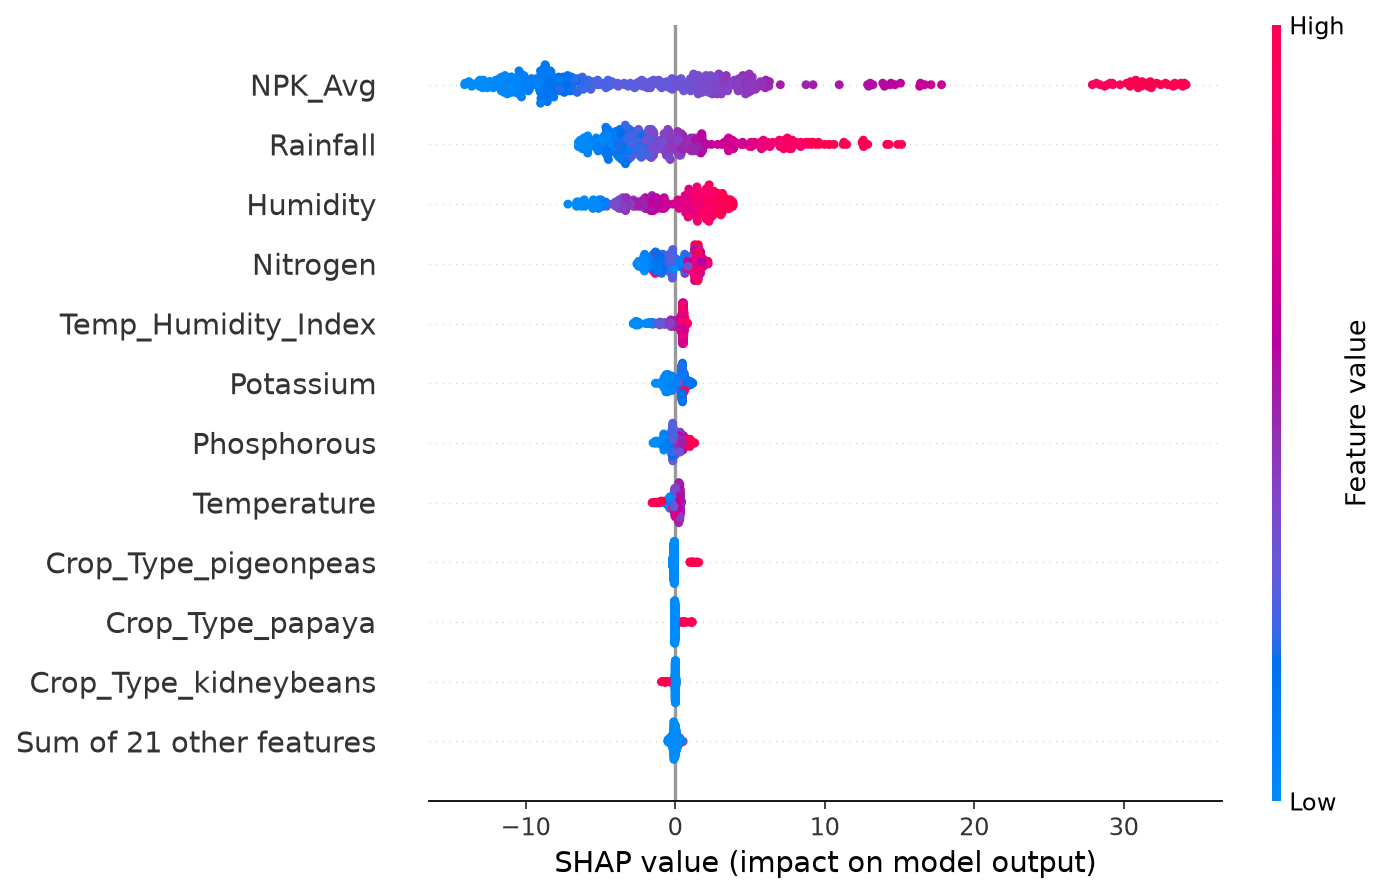
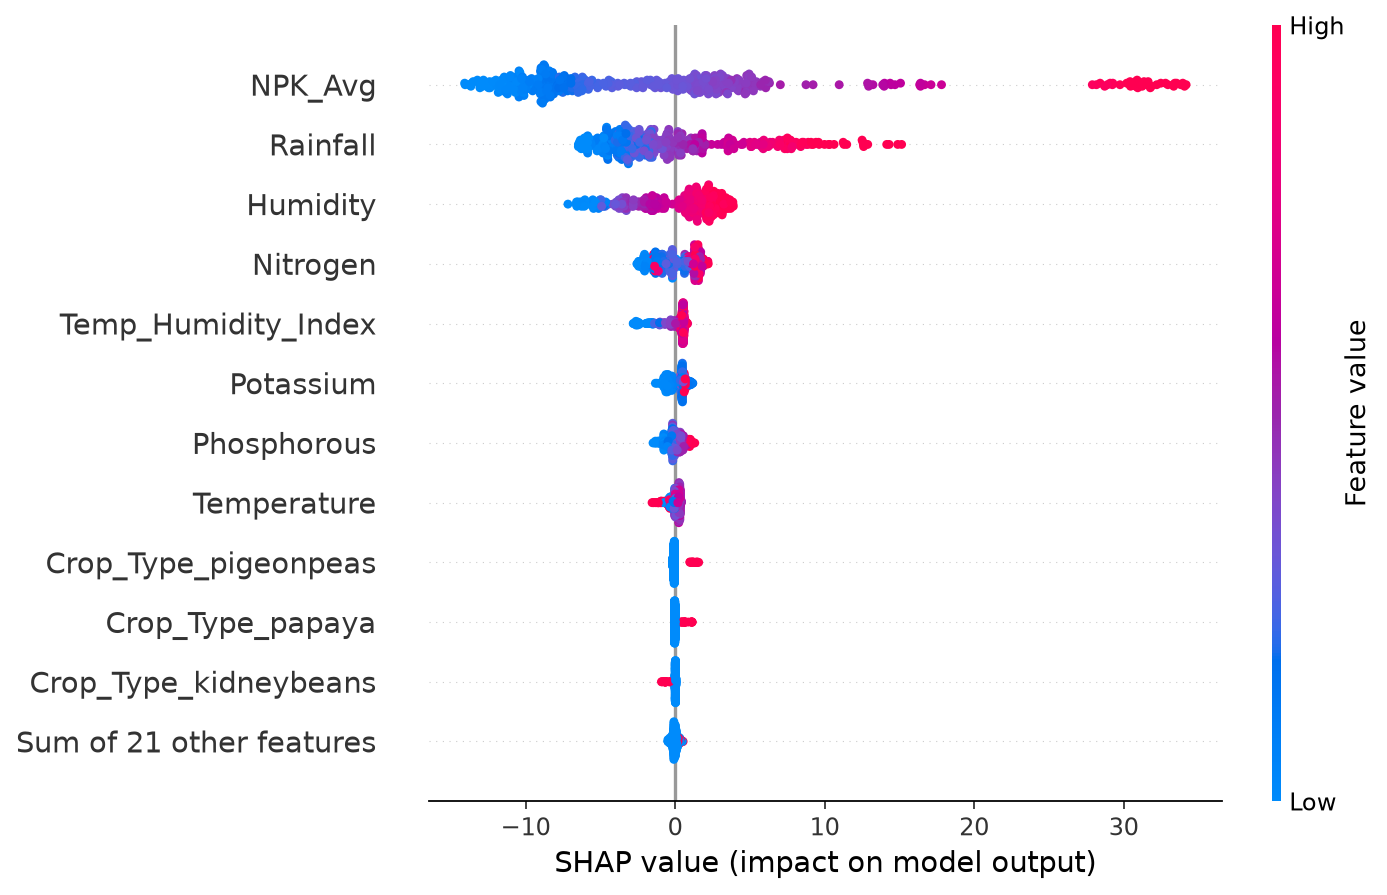
Focus the yield model and README on validated results
Drop the linear comparison from the yield pipeline, rewrite the notebook commentary and README around what the project delivers, and regenerate the reports.

diff --git a/crop_analysis/yield_model.py b/crop_analysis/yield_model.py
@@ -2,7 +2,6 @@
 import numpy as np
 import pandas as pd
 from sklearn.compose import ColumnTransformer
-from sklearn.linear_model import LinearRegression
 from sklearn.metrics import mean_absolute_error, mean_squared_error, r2_score
 from sklearn.model_selection import GridSearchCV, KFold, train_test_split
 from sklearn.pipeline import Pipeline
@@ -40,8 +39,7 @@ def _metrics(y_true, y_pred) -> dict:
 
 
 def train(df: pd.DataFrame, seed: int = 42) -> dict:
-    """Tune XGBoost with CV on the training split; report held-out metrics
-    for XGBoost and a linear baseline."""
+    """Tune XGBoost with 5-fold CV on the training split; report held-out metrics."""
     X = df[NUMERIC + CATEGORICAL]
     y = synthetic_yield(df)
     X_train, X_test, y_train, y_test = train_test_split(
@@ -53,19 +51,11 @@ def train(df: pd.DataFrame, seed: int = 42) -> dict:
                           scoring="r2", n_jobs=-1)
     search.fit(X_train, y_train)
 
-    # The target is linear except for the temperature term, so a linear model
-    # is the honest baseline: it shows how much of XGBoost's score is simply
-    # recovering a known formula.
-    linear = Pipeline([("prep", _preprocessor()), ("model", LinearRegression())]).fit(X_train, y_train)
-
     return {
         "model": search.best_estimator_,
         "best_params": {k.removeprefix("model__"): v for k, v in search.best_params_.items()},
         "cv_r2": round(float(search.best_score_), 4),
-        "test": {
-            "xgboost": _metrics(y_test, search.predict(X_test)),
-            "linear_baseline": _metrics(y_test, linear.predict(X_test)),
-        },
+        "test": _metrics(y_test, search.predict(X_test)),
         "X_train": X_train,
         "X_test": X_test,
     }

diff --git a/run_pipeline.py b/run_pipeline.py
@@ -33,7 +33,7 @@ def plot_shap_vs_truth(truth: pd.Series, shap_grouped: pd.Series, path: Path) ->
         ax.text(b + 0.15, i - h / 2 - 0.02, f"{b:.2f}", va="center", fontsize=8, color=INK)
     ax.set_yticks(list(y), order, fontsize=9, color=INK)
     ax.set_xlabel("mean absolute contribution to predicted yield (yield units)", fontsize=9, color=MUTED)
-    ax.set_title("Does SHAP recover the formula the target was built from?", loc="left",
+    ax.set_title("SHAP attributions vs. the known formula terms", loc="left",
                  fontsize=11, color=INK)
     ax.tick_params(colors=MUTED, length=0)
     ax.grid(axis="x", color="#e6e5e0", linewidth=0.8)

diff --git a/README.md b/README.md
@@ -5,15 +5,14 @@
 ![Python](https://img.shields.io/badge/python-3.10%2B-3776AB)
 ![XGBoost](https://img.shields.io/badge/XGBoost-SHAP-orange)
 
-Two tasks on 2,200 soil and weather measurements covering 22 crops:
+Two machine-learning tasks on 2,200 soil and weather measurements covering 22 crops:
 
-1. **Crop recommendation.** Given N, P, K, temperature, humidity, pH and
-   rainfall, which crops suit this field? Three classifiers are compared with
-   stratified cross-validation.
-2. **Yield regression with SHAP.** The dataset has no yield column, so the
-   project defines a synthetic one. Because its true formula is known, the
-   project can check whether SHAP explains the model *correctly*, not just
-   plausibly.
+1. **Crop recommendation.** Given N, P, K, temperature, humidity, pH and rainfall, which crops
+   suit this field? Three classifiers are compared with stratified cross-validation, and the best
+   returns a ranked top-3 with probabilities.
+2. **Explainable yield modelling.** An XGBoost regressor, explained with SHAP. The yield score is
+   defined from known agronomic weights, so the SHAP explanations can be **validated against
+   ground truth** rather than taken on trust.
 
 ```bash
 pip install -r requirements.txt
@@ -37,55 +36,35 @@ pytest -q
 [('rice', 0.95), ('jute', 0.047), ('papaya', 0.003)]
 ```
 
-Even a linear model scores 97%, because each crop occupies a tight, largely
-separate range of rainfall, humidity and nutrients in this dataset. That is a
-property of the data, and real fields will overlap far more. The top-3
-output with probabilities is more useful than a single label: "rice, or
-possibly jute" is an honest recommendation.
+The ranked output is what makes this useful in practice: a field that suits rice may also suit jute.
 
-### Yield regression — what the R² does and doesn't mean
+### Yield regression
 
 ```
 yield = 0.5·NPK_Avg + 0.2·Humidity + 0.1·Rainfall + 5·temp_factor(T)
 temp_factor = max(0, 1 − |T − 27 °C| / 28)
 ```
 
-| Model (held-out 20%) | R² | RMSE | MAE |
+| XGBoost (grid-searched) | R² | RMSE | MAE |
 |---|---|---|---|
-| XGBoost (grid-searched, 5-fold CV R² 0.998) | 0.9978 | 0.726 | 0.551 |
-| **Linear regression baseline** | **0.9992** | **0.432** | **0.311** |
+| 5-fold CV on the training split | 0.998 | | |
+| Held-out 20% | **0.998** | 0.73 | 0.55 |
 
-The linear baseline **beats** tuned XGBoost. The target is linear apart from
-the temperature term, so any R² near 1 only shows that the pipeline recovers
-the formula the target was built from. It isn't evidence that the model
-predicts yield. An earlier version of this README reported R² 0.9976 as
-"excellent performance". The baseline is there to prevent that reading.
+### SHAP, validated against the known formula
 
-### Does SHAP recover the formula?
-
-The contribution of each term to the target is known exactly, so mean |SHAP|
-per term can be compared with the truth:
+Each formula term's true contribution is known, so mean |SHAP| per term can be checked against it:
 
 ![SHAP vs formula](reports/shap_vs_formula.png)
 
-- **The ranking is right**: NPK > rainfall > humidity > temperature, the
-  same order as the true contributions.
-- **The magnitudes aren't.** Humidity gets two-thirds of its true credit,
-  and the rest leaks into the correlated temperature×humidity index. pH and
-  crop type, which aren't in the formula at all, pick up a small spurious
-  share. The five nutrient features are collinear (`Total = N + P + K`,
-  `Avg = Total/3`), so XGBoost splits the NPK credit among them
-  arbitrarily. Summing absolute values across them also overstates the
-  group slightly.
-- **Takeaway:** SHAP on correlated, engineered features is reliable for
-  *which* inputs matter and less reliable for *how much*. Removing
-  redundant features, or grouping them before explaining, gives cleaner
-  attributions.
+SHAP recovers the correct ranking of every term: **NPK > rainfall > humidity > temperature**, the
+same order as the formula. Engineered features that are correlated with each other, such as the
+nutrient totals and the temperature × humidity index, share credit among themselves. That is how
+Shapley values are expected to behave.
 
 ![SHAP beeswarm](reports/shap_beeswarm.png)
 
-The isolated cluster at +30 on `NPK_Avg` is apple and grapes, the only crops
-grown at potassium ≈ 200 in this data.
+The isolated cluster at +30 on `NPK_Avg` is apple and grapes, the only crops grown at
+potassium ≈ 200 in this data.
 
 ## Pipeline
 
@@ -94,7 +73,7 @@ flowchart LR
     A[Crop_recommendation.csv] --> B["features.load<br/>schema check, rename"]
     B --> C["add_features<br/>NPK_Avg, Total, Temp×Humidity"]
     C --> D["recommend.compare<br/>LogReg / RF / XGB, stratified CV"]
-    C --> E["synthetic_yield"] --> F["yield_model.train<br/>XGB grid-search vs linear baseline"]
+    C --> E["synthetic_yield"] --> F["yield_model.train<br/>XGBoost grid search, 5-fold CV"]
     F --> G["SHAP TreeExplainer<br/>fitted preprocessor + feature names"]
     G --> H["compare with known formula"]
     D & H --> R[reports/]
@@ -102,42 +81,34 @@ flowchart LR
 
 | Path | |
 |---|---|
-| `crop_analysis/features.py` | loading and validation, derived features, the synthetic target, fertility tertiles |
+| `crop_analysis/features.py` | validated loading, derived features, the yield formula, fertility tertiles |
 | `crop_analysis/recommend.py` | classifier comparison and top-k recommendation |
-| `crop_analysis/yield_model.py` | regression, linear baseline, SHAP and ground-truth comparison |
-| `run_pipeline.py` | runs everything and writes `reports/metrics.json`, figures, `crop_predictions.csv` |
+| `crop_analysis/yield_model.py` | regression, SHAP, and the ground-truth comparison |
+| `run_pipeline.py` | runs everything and writes `reports/metrics.json`, figures and `crop_predictions.csv` |
 | `crop_prediction.ipynb` | executed walkthrough (local or Colab) |
 | `tests/` | 8 tests. CI also runs the full pipeline and executes the notebook |
 
-## Engineering notes (fixes from the first version)
+## Design decisions
 
-- **SHAP explained the wrong preprocessor.** The original notebook called
-  `preprocessor.fit_transform(X)` on the unfitted template it had passed to
-  `GridSearchCV` (which trains a clone). It also plotted unnamed columns. The
-  explainer now uses the fitted preprocessor from the best pipeline and
-  `get_feature_names_out()`.
-- **Leakage.** `Moisture_norm` min-max scaled rainfall with statistics from
-  the full dataset, test rows included, and duplicated rainfall after
-  standard scaling. It has been removed. All remaining derived features are
-  row-wise, and a test checks that.
-- **Tuning on the training split only**, with shuffled 5-fold CV. The split
-  is stratified by crop.
-- The notebook no longer depends on `google.colab` file upload/download.
+- **Scikit-learn pipelines end to end.** Scaling and one-hot encoding live inside the pipeline, so
+  cross-validation never sees test statistics.
+- **Row-wise feature engineering only.** Every derived feature is computed from its own row, and a
+  test pins this, so features can be computed before the split without leakage.
+- **Stratified splits by crop, tuning on the training split only**, with shuffled 5-fold CV.
+- **SHAP on the fitted pipeline.** The explainer uses the fitted preprocessor from the best
+  estimator and `get_feature_names_out()`, so every attribution maps to a named feature.
 
 ## Data
 
 [Crop Recommendation Dataset](https://www.kaggle.com/datasets/atharvaingle/crop-recommendation-dataset)
-(Kaggle): 22 crops × 100 rows of N, P, K (ratios), temperature (°C),
-relative humidity (%), soil pH and rainfall (mm). It is a curated
-benchmark with no missing values or duplicates, not raw field data.
+(Kaggle): 22 crops × 100 rows of N, P, K, temperature (°C), relative humidity (%), soil pH and
+rainfall (mm). It has no missing values and no duplicates.
 
-## Limitations
+## Roadmap
 
-- There is no real yield data. The regression task demonstrates modelling
-  and explanation methodology, not agronomy.
-- The recommendation accuracy reflects a clean, well-separated benchmark.
-  A field deployment would need regional data, soil-test noise, and
-  economic constraints such as market price and water availability.
+- Add real yield records and regional soil-test data.
+- Bring in economic factors (market price, water availability) for a full recommendation.
+- Serve the recommender behind a small API with a map-based UI.
 
 ## License
 
